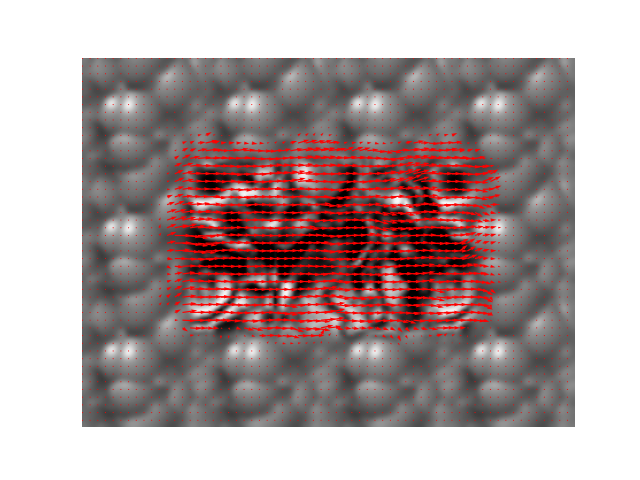
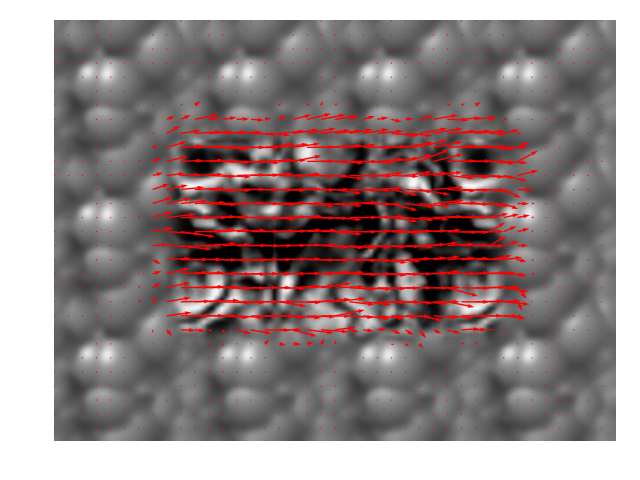
Hierarchical LK optic flow

diff --git a/ps5_python/ps5.py b/ps5_python/ps5.py
@@ -6,7 +6,6 @@ Created on Sat May 5 13:40:08 2020
 @author: sanskar
 """
 
-import numpy as np
 import cv2
 import matplotlib.pyplot as plt
 # User Modules
@@ -52,7 +51,7 @@ if __name__ == '__main__':
     seq_img1_levm1 = pyramid.expand(seq_img1_lev1)
     seq_img1_levm2 = pyramid.expand(seq_img1_lev2)
     seq_img1_levm3 = pyramid.expand(seq_img1_lev3)
-    lap_lev1 = pyramid.find_diff(seq_img1.astype(np.float32), seq_img1_levm1)
+    lap_lev1 = pyramid.find_diff(seq_img1, seq_img1_levm1)
     lap_lev2 = pyramid.find_diff(seq_img1_lev1, seq_img1_levm2)
     lap_lev3 = pyramid.find_diff(seq_img1_lev2, seq_img1_levm3)
 
@@ -69,26 +68,58 @@ if __name__ == '__main__':
     yos0 = cv2.imread('input/DataSeq1/yos_img_01.jpg', 0)
     yos1 = cv2.imread('input/DataSeq1/yos_img_02.jpg', 0)
     yos2 = cv2.imread('input/DataSeq1/yos_img_03.jpg', 0)
+    seq0 = cv2.imread('input/DataSeq2/0.png', 0)
+    seq1 = cv2.imread('input/DataSeq2/1.png', 0)
+    seq2 = cv2.imread('input/DataSeq2/2.png', 0)
 
-    flow_ds1_1, yos0_l_1, yos1_l_1 = lk.level_lk(yos0, yos1, level=4)
-    flow_ds1_2, yos1_l_2, yos2_l_2 = lk.level_lk(yos1, yos2, level=4)
+    flow_ds1_1, yos0_l_1, yos1_l_1 = lk.level_lk(yos0, yos1, level=3)
+    flow_ds1_2, yos1_l_2, yos2_l_2 = lk.level_lk(yos1, yos2, level=3)
     warp_ds1_1 = warp.warp_back(yos1, flow_ds1_1)
     warp_ds1_2 = warp.warp_back(yos2, flow_ds1_2)
-    diff1 = cv2.subtract(warp_ds1_1, yos0)
-    diff2 = cv2.subtract(warp_ds1_2, yos1)
+    diff1 = pyramid.find_diff(warp_ds1_1, yos0)
+    diff2 = pyramid.find_diff(warp_ds1_2, yos1)
 
     lk.draw_flow_quiver(flow_ds1_1, yos0, 'output/ps5-3-a-1.png')
     lk.draw_flow_quiver(flow_ds1_2, yos1, 'output/ps5-3-a-2.png')
     cv2.imwrite('output/ps5-3-a-3.png', diff1)
     cv2.imwrite('output/ps5-3-a-4.png', diff2)
 
+    flow_ds1_1, seq0_l_1, seq1_l_1 = lk.level_lk(seq0, seq1, level=4)
+    flow_ds1_2, seq1_l_2, seq2_l_2 = lk.level_lk(seq1, seq2, level=4)
+    warp_ds1_1 = warp.warp_back(seq1, flow_ds1_1)
+    warp_ds1_2 = warp.warp_back(seq2, flow_ds1_2)
+    diff1 = pyramid.find_diff(warp_ds1_1, seq0)
+    diff2 = pyramid.find_diff(warp_ds1_2, seq1)
+
+    lk.draw_flow_quiver(flow_ds1_1, seq0, 'output/ps5-3-a-5.png')
+    lk.draw_flow_quiver(flow_ds1_2, seq1, 'output/ps5-3-a-6.png')
+    cv2.imwrite('output/ps5-3-a-7.png', diff1)
+    cv2.imwrite('output/ps5-3-a-8.png', diff2)
+
     # Problem 4
     shift0 = cv2.imread('input/TestSeq/Shift0.png', 0)
     shiftr10 = cv2.imread('input/TestSeq/ShiftR10.png', 0)
     shiftr20 = cv2.imread('input/TestSeq/ShiftR20.png', 0)
     shiftr40 = cv2.imread('input/TestSeq/ShiftR40.png', 0)
+    yos0 = cv2.imread('input/DataSeq1/yos_img_01.jpg', 0)
+    yos1 = cv2.imread('input/DataSeq1/yos_img_02.jpg', 0)
+    yos2 = cv2.imread('input/DataSeq1/yos_img_03.jpg', 0)
+    seq0 = cv2.imread('input/DataSeq2/0.png', 0)
+    seq1 = cv2.imread('input/DataSeq2/1.png', 0)
+    seq2 = cv2.imread('input/DataSeq2/2.png', 0)
 
-    flow_hl_1 = lk.hierarchical_lk(yos0, yos1)
-    lk.draw_flow_quiver(flow_hl_1, yos0, 'output/ps5-4-a-1.png')
+    flow_hl_1 = lk.hierarchical_lk(shift0, shiftr10, k=5)
+    flow_hl_2 = lk.hierarchical_lk(shift0, shiftr20, k=5)
+    flow_hl_3 = lk.hierarchical_lk(shift0, shiftr40, k=5)
+    flow_hl_4 = lk.hierarchical_lk(yos0, yos1, k=5)
+    flow_hl_5 = lk.hierarchical_lk(yos1, yos2, k=5)
+    flow_hl_6 = lk.hierarchical_lk(seq0, seq1, k=5)
+    flow_hl_7 = lk.hierarchical_lk(seq1, seq2, k=5)
 
-
+    lk.draw_flow_quiver(flow_hl_1, shift0, 'output/ps5-4-a-1.png')
+    lk.draw_flow_quiver(flow_hl_2, shift0, 'output/ps5-4-a-2.png')
+    lk.draw_flow_quiver(flow_hl_3, shift0, 'output/ps5-4-a-3.png')
+    lk.draw_flow_quiver(flow_hl_4, yos0, 'output/ps5-4-a-4.png')
+    lk.draw_flow_quiver(flow_hl_5, yos1, 'output/ps5-4-a-5.png')
+    lk.draw_flow_quiver(flow_hl_6, seq0, 'output/ps5-4-a-6.png')
+    lk.draw_flow_quiver(flow_hl_7, seq1, 'output/ps5-4-a-7.png')

diff --git a/ps5_python/lk.py b/ps5_python/lk.py
@@ -33,10 +33,12 @@ def lucas_kanade(img1, img2, w_size=(15, 15)):
     return flow
 
 
-def draw_flow_quiver(flow1, img, filename, step=5):
+def draw_flow_quiver(flow1, img, filename, step=None):
     flow = flow1.copy()
     flow = np.flip(flow, axis=0)
     h, w = img.shape
+    if step is None:
+        step = min(h, w) // 30
     flow = flow[:h, :w, :]  # Change in size because of gaussian pyramids
     x = np.arange(0, w, step)
     y = np.arange(0, h, step)
@@ -71,19 +73,19 @@ def level_lk(img1, img2, level=0, w_size=(21, 21)):
 def equate_size(flow, shape):
     h, w = shape
     h1, w1, _ = flow.shape
-    if(h1 >= h and w1 >= w):
+    if h1 >= h and w1 >= w:
         flow = flow[:h, :w, :]
     else:
         u = flow[:, :, 0]
         v = flow[:, :, 1]
-        diff_h = h-h1
-        diff_w = w-w1
-        if(diff_h > 0):
+        diff_h = h - h1
+        diff_w = w - w1
+        if diff_h > 0:
             for _ in range(diff_h):
                 u = np.append(u, np.atleast_2d(np.zeros(w1, dtype=np.float32)), axis=0)
                 v = np.append(v, np.atleast_2d(np.zeros(w1, dtype=np.float32)), axis=0)
                 h1 += 1
-        if(diff_w > 0):
+        if diff_w > 0:
             for _ in range(diff_w):
                 u = np.append(u, np.atleast_2d(np.zeros(h1, dtype=np.float32)).T, axis=1)
                 v = np.append(v, np.atleast_2d(np.zeros(h1, dtype=np.float32)).T, axis=1)
@@ -99,13 +101,13 @@ def hierarchical_lk(img1, img2, k=None):
         k = int(math.floor(math.log2(mini)))
     lk = img1.copy().astype(np.float32)
     rk = img2.copy().astype(np.float32)
-    levels_lk = [lk.copy()]
-    levels_rk = [rk.copy()]
+    levels_lk = []
+    levels_rk = []
     for _ in range(k):
-        lk = pyramid.reduce(lk)
-        rk = pyramid.reduce(rk)
         levels_lk.append(lk.copy())
         levels_rk.append(rk.copy())
+        lk = pyramid.reduce(lk)
+        rk = pyramid.reduce(rk)
     u = np.zeros(lk.shape, dtype=np.float32)
     v = np.zeros(rk.shape, dtype=np.float32)
 

diff --git a/ps5_python/pyramid.py b/ps5_python/pyramid.py
@@ -9,7 +9,6 @@ def reduce(img1):
     kernel = np.matmul(kernel.T, kernel)
     dst = cv2.filter2D(img, -1, kernel)
     dst = dst[::2, ::2]
-    h, w = dst.shape
     return dst
 
 
@@ -25,8 +24,12 @@ def expand(img1):
 
 
 def find_diff(img1, img2):
+    img11 = img1.copy().astype(np.float32)
+    img22 = img2.copy().astype(np.float32)
+    img11 = cv2.normalize(img11, None, alpha=0, beta=255, norm_type=cv2.NORM_MINMAX, dtype=cv2.CV_32F)
+    img22 = cv2.normalize(img22, None, alpha=0, beta=255, norm_type=cv2.NORM_MINMAX, dtype=cv2.CV_32F)
     h1, w1 = img1.shape
     h2, w2 = img2.shape
     minh = min(h1, h2)
     minw = min(w1, w2)
-    return cv2.subtract(img1[:minh, :minw], img2[:minh, :minw])
+    return cv2.subtract(img11[:minh, :minw], img22[:minh, :minw])

diff --git a/README.md b/README.md
@@ -23,6 +23,7 @@ The description of each folder is as follows:
 ## 6. PS5 => Optical Flow
  - Basic Lucas Kanade
  - Gaussian and Laplacian Pyramids
- - ...
+ - Warping by flow
+ - Hierarchical LK Optic Flow
 
 ## WIP
